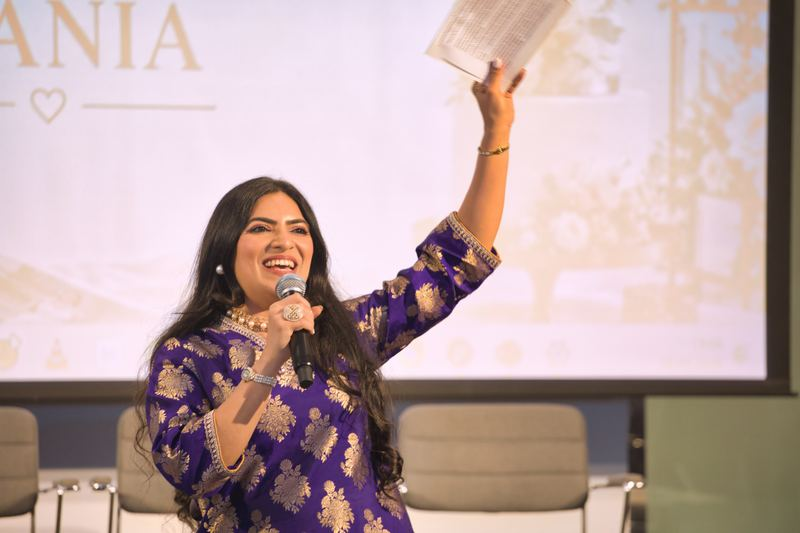
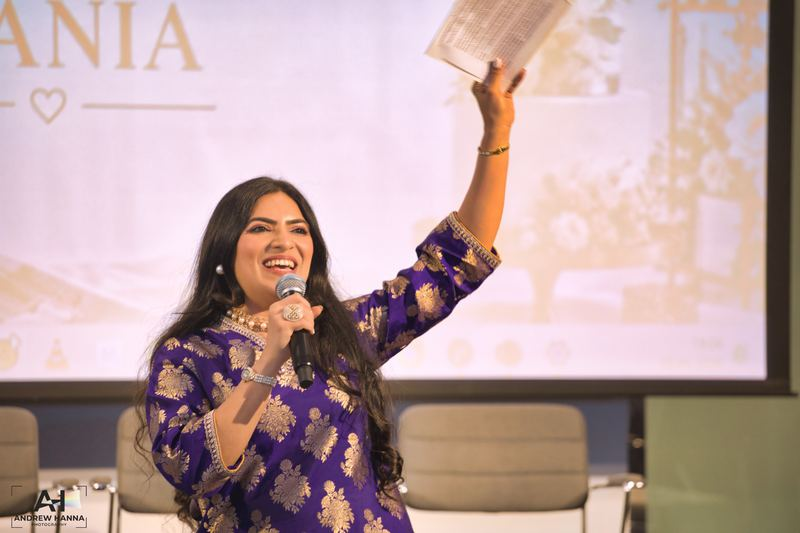
Watermarked photos 49-58 and gallery list

diff --git a/events.js b/events.js
@@ -76,41 +76,7 @@ window.AH_EVENTS = [
       "dme26_55.jpg",
       "dme26_56.jpg",
       "dme26_57.jpg",
-      "dme26_58.jpg",
-      "dme26_59.jpg",
-      "dme26_60.jpg",
-      "dme26_61.jpg",
-      "dme26_62.jpg",
-      "dme26_63.jpg",
-      "dme26_64.jpg",
-      "dme26_65.jpg",
-      "dme26_66.jpg",
-      "dme26_67.jpg",
-      "dme26_68.jpg",
-      "dme26_69.jpg",
-      "dme26_70.jpg",
-      "dme26_71.jpg",
-      "dme26_72.jpg",
-      "dme26_73.jpg",
-      "dme26_74.jpg",
-      "dme26_75.jpg",
-      "dme26_76.jpg",
-      "dme26_77.jpg",
-      "dme26_78.jpg",
-      "dme26_79.jpg",
-      "dme26_80.jpg",
-      "dme26_81.jpg",
-      "dme26_82.jpg",
-      "dme26_83.jpg",
-      "dme26_84.jpg",
-      "dme26_85.jpg",
-      "dme26_86.jpg",
-      "dme26_87.jpg",
-      "dme26_88.jpg",
-      "dme26_89.jpg",
-      "dme26_90.jpg",
-      "dme26_91.jpg",
-      "dme26_92.jpg"
+      "dme26_58.jpg"
     ],
     zip:    ""
   }
